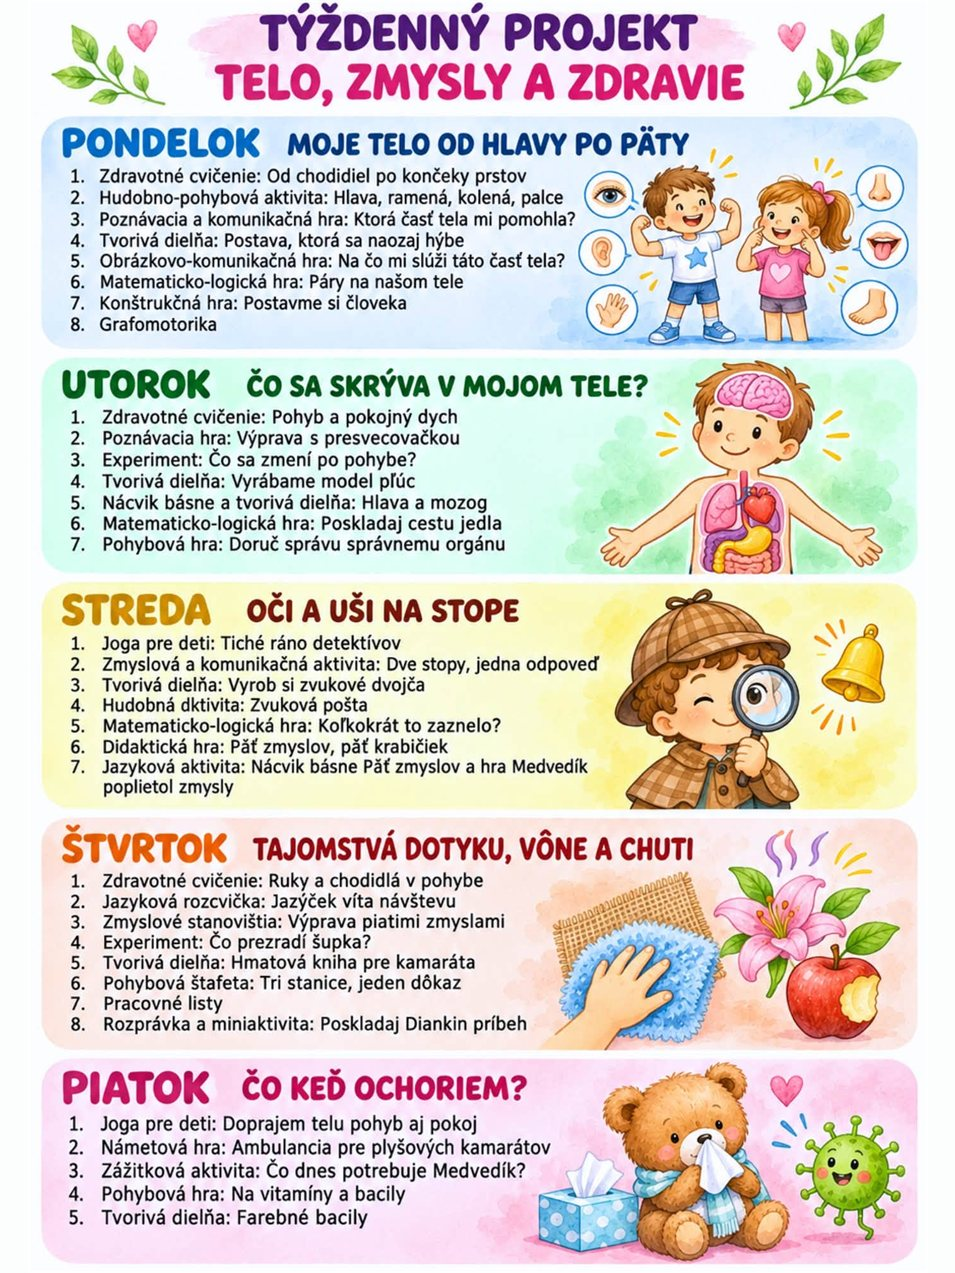
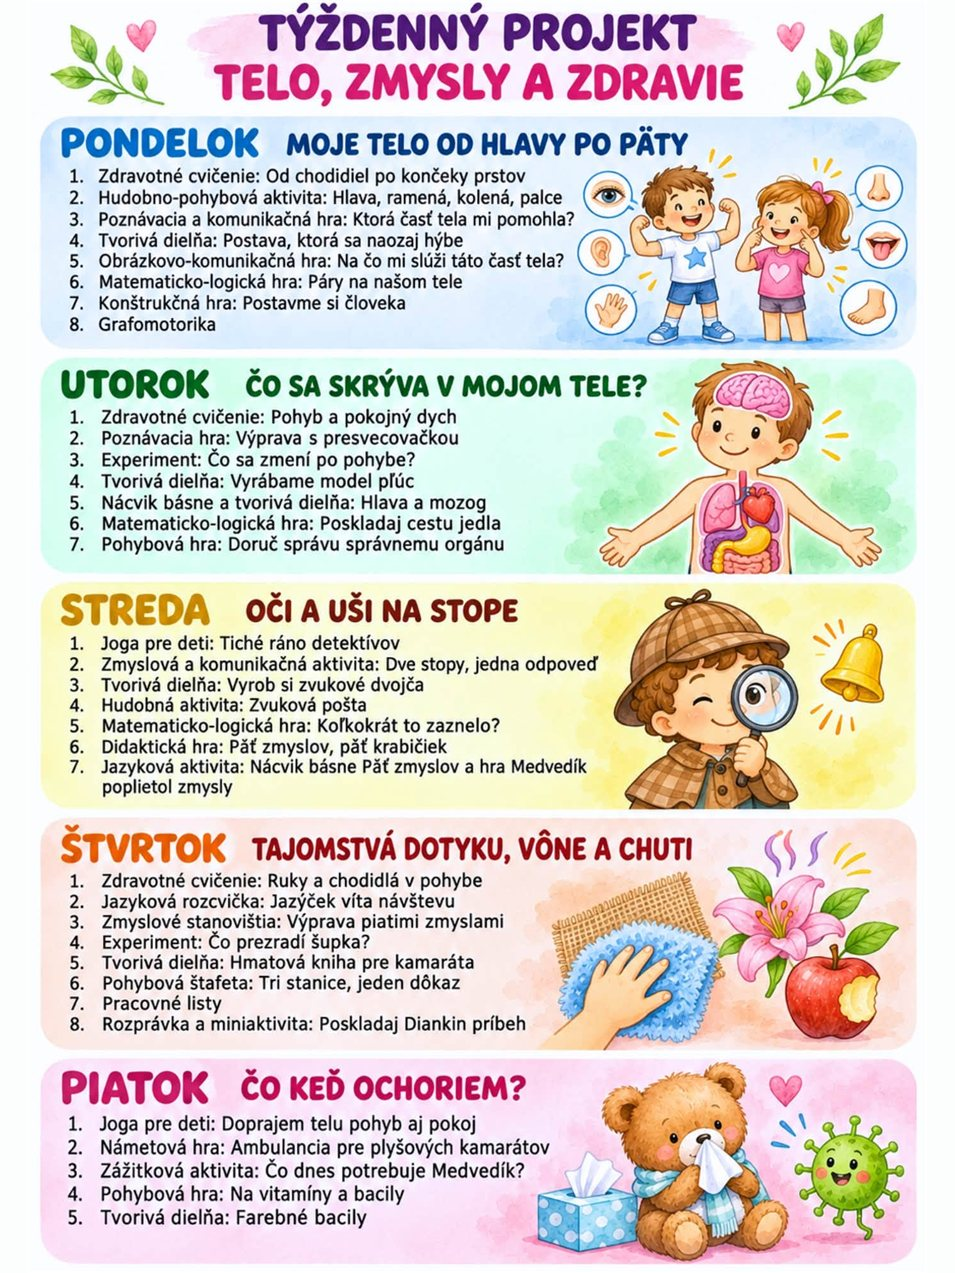
Telo, zmysly a zdravie: nová titulka, oprava preklepu v pláne

diff --git a/index.html b/index.html
@@ -1116,7 +1116,7 @@
 
 <script>
   const products = [
-    {name:"Telo, zmysly a zdravie – Týždenný projekt", badge:"154 strán", images:[263,264,265,266,267,268,269,270,271,272], category:"Týždenné projekty", desc:"Moje telo, orgány, päť zmyslov a čo robiť, keď ochorieme – aktivity na celý týždeň.", fbText:`🧸✨ Kompletný týždenný projekt s množstvom pripravených aktivít a príloh k téme TELO, ZMYSLY A ZDRAVIE – až 154 strán! 👀👂🎨
+    {name:"Telo, zmysly a zdravie – Týždenný projekt", badge:"154 strán", images:[273,263,264,265,266,267,268,269,270,271,272], category:"Týždenné projekty", desc:"Moje telo, orgány, päť zmyslov a čo robiť, keď ochorieme – aktivity na celý týždeň.", fbText:`🧸✨ Kompletný týždenný projekt s množstvom pripravených aktivít a príloh k téme TELO, ZMYSLY A ZDRAVIE – až 154 strán! 👀👂🎨
 ━━━━━━━━━━━━━━━━━━━━━━
 💬 Do komentára napíšte „TELO“
 💛 Ponúkam kompletne pripravený týždenný projekt, ktorým deti sprevádza plyšový pán Medvedík. Spoločne spoznajú svoje telo od hlavy po päty, objavia orgány ukryté vo vnútri a preskúmajú svet pomocou piatich zmyslov. Naučia sa vnímať potreby svojho tela a premýšľať, ako pomôcť kamarátovi, ktorý sa necíti dobre. 🧠🫁🩺
